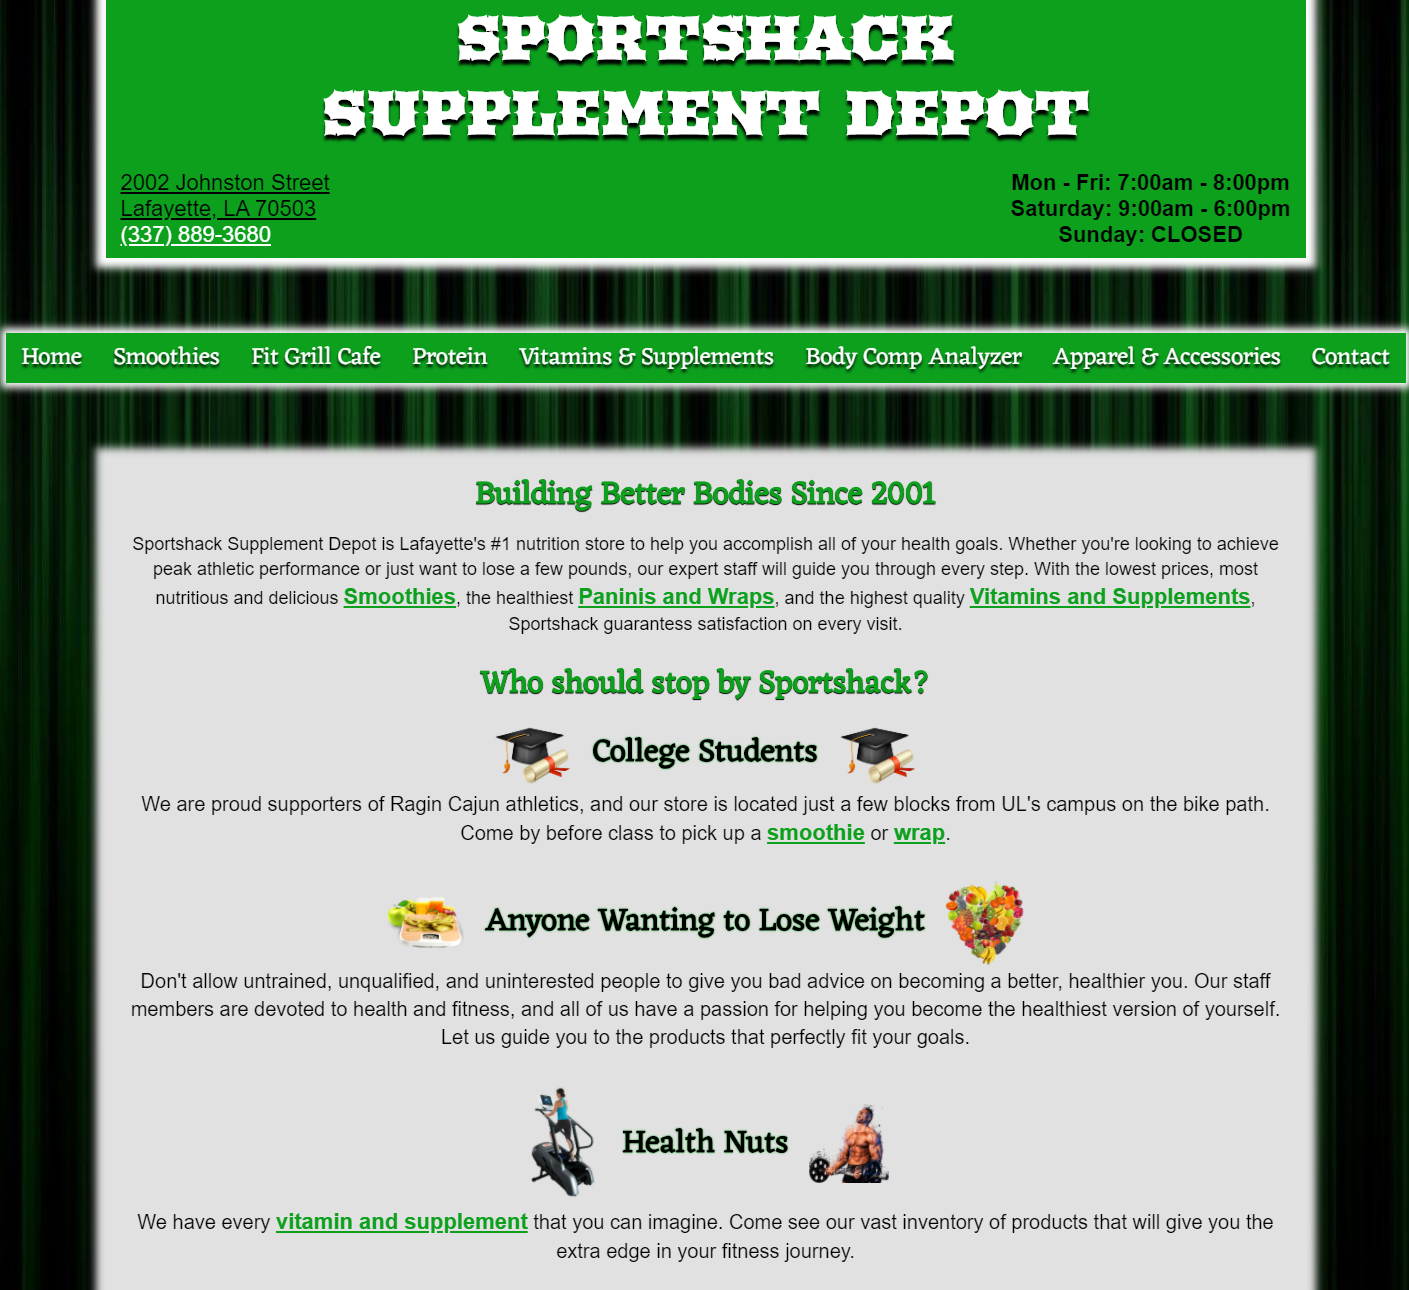
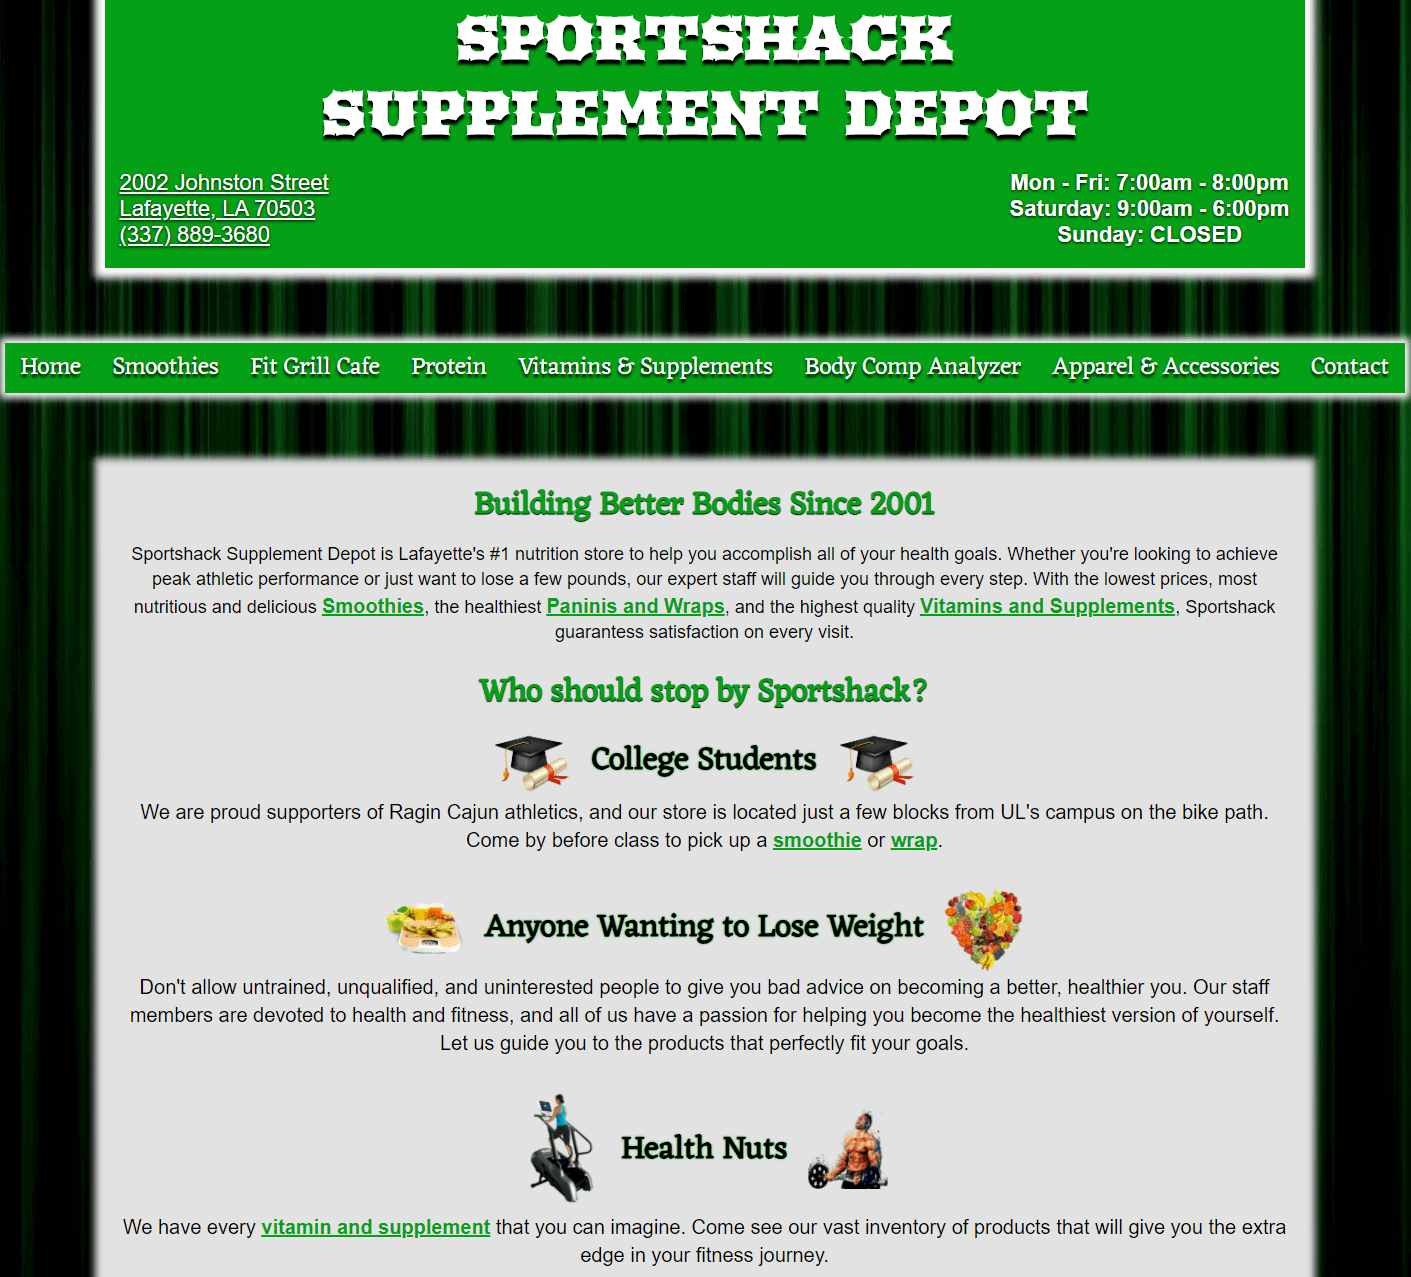
minor updates

Changed region(s): [[0.0, 0.0, 1.0, 1.0]]

diff --git a/src/Components/Cafe/Cafe.js b/src/Components/Cafe/Cafe.js
@@ -13,7 +13,7 @@ export default function Cafe() {
 
             <section className="cafe-intro-box">
                 <p className="cafe-intro1">
-                    Starting at only $5.99, you can create your own panini or wrap. Choose your bread, meat, cheese,
+                    Create your own panini or wrap. Choose your bread, meat, cheese,
                     veggies, and sauce. Your food will be freshly-made by a team member and served to you quickly. 
                     Breadless options are available.
                 </p>

diff --git a/src/Components/Header/Header.js b/src/Components/Header/Header.js
@@ -24,7 +24,7 @@ export default function Header() {
 
         {/* HOURS OF OPERATION */}
             <section className="hours">
-                <p>Mon - Fri: 7:00am - 8:00pm</p>
+                <p>Mon - Fri: 8:00am - 7:00pm</p>
                 <p>Saturday: 9:00am - 6:00pm</p>
                 <p>Sunday: CLOSED</p>
             </section>

diff --git a/src/SmoothiesContext.js b/src/SmoothiesContext.js
@@ -6,7 +6,6 @@ export const SmoothiesContext = createContext();
 const SmoothiesContextProvider = (props) => {
     const [smoothies20, setSmoothies20 ] = useState([]);
     const [smoothies32, setSmoothies32 ] = useState([]);
-    // const [loading, setLoading] = useState(false);
 
     useLayoutEffect(() => {
       Promise.all([

diff --git a/src/index.css b/src/index.css
@@ -5,7 +5,7 @@ body {
     sans-serif;
   -webkit-font-smoothing: antialiased;
   -moz-osx-font-smoothing: grayscale;
-  background-image: url('./images/green-black1.jpg');
+  background-image: url('./images/green-black1.png');
   background-repeat: no-repeat;
   background-attachment: fixed;
   background-position: center center;

diff --git a/src/Components/Smoothies/Smoothies.css b/src/Components/Smoothies/Smoothies.css
@@ -21,14 +21,17 @@
 
 .smoothies-intro1 {
     margin-bottom: 25px;
+    font-size: 16px;
 }
 
 .smoothies-intro2 {
     margin-bottom: 25px;
+    font-size: 16px;
 }
 
 .smoothies-intro3 {
     margin-bottom: 10px;
+    font-size: 16px;
 }
 
 .girl-scout-flavors {

diff --git a/src/Components/BodyComp/BodyComp.css b/src/Components/BodyComp/BodyComp.css
@@ -29,14 +29,17 @@
 
 .body-comp-intro1 {
     margin-bottom: 20px;
+    font-size: 16px;
 }
 
 .body-comp-intro2 {
     margin-bottom: 20px;
+    font-size: 16px;
 }
 
 .body-comp-intro3 {
     margin-bottom: 40px;
+    font-size: 16px;
 }
 
 .body-comp-pics {

diff --git a/src/Components/Protein/Protein.css b/src/Components/Protein/Protein.css
@@ -29,11 +29,13 @@
 .protein-intro1 {
     text-align: center;
     margin-bottom: 20px;
+    font-size: 16px;
 }
 
 .protein-intro2 {
     text-align: center;
     margin-bottom: 40px;
+    font-size: 16px;
 }
 
 .protein-cat-title {

diff --git a/src/Components/Home/Home.css b/src/Components/Home/Home.css
@@ -59,11 +59,13 @@
 .why {
     margin-bottom: 30px;
     text-align: center;
+    font-size: 16px;
 }
 
 .home-outro {
     text-align: center;
     margin-top: 40px;
+    font-size: 16px;
 }
 
 .info-and-map {

diff --git a/src/Components/Cafe/Cafe.css b/src/Components/Cafe/Cafe.css
@@ -25,10 +25,12 @@
 
 .cafe-intro1 {
     margin-bottom: 20px;
+    font-size: 16px;
 }
 
 .cafe-intro2 {
     margin-bottom: 40px;
+    font-size: 16px;
 }
 
 .cafe-page a {
